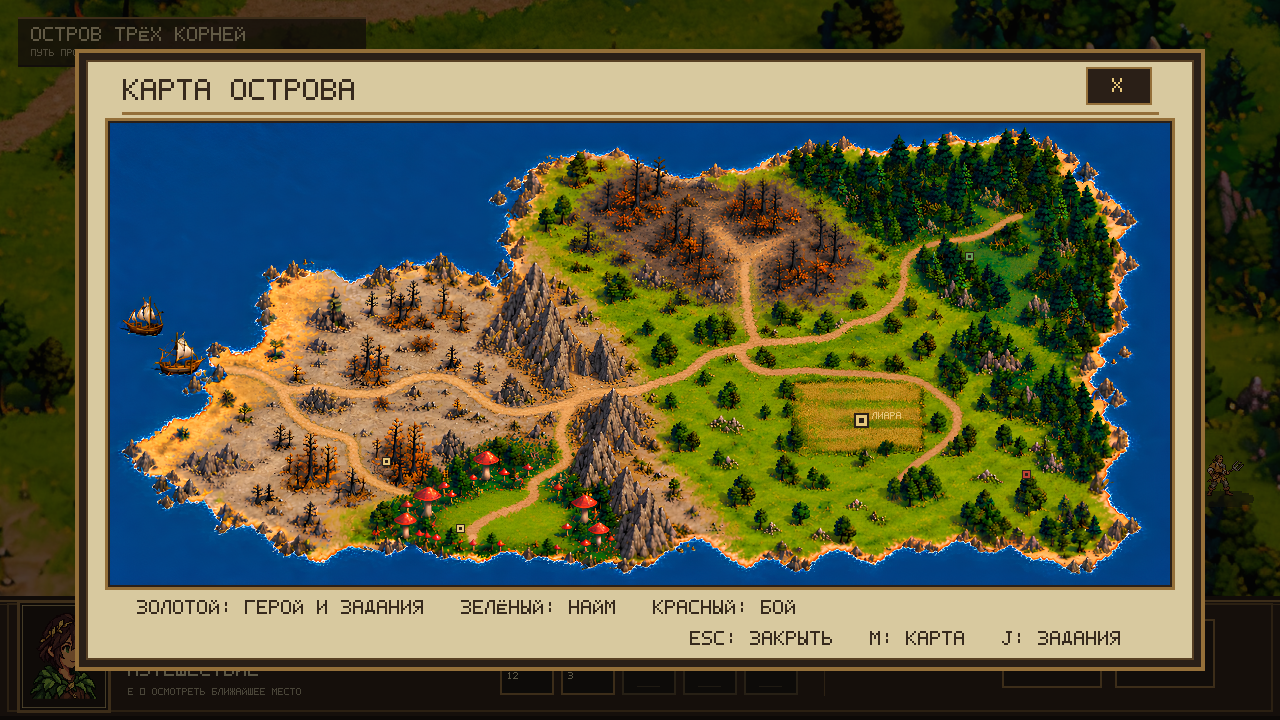
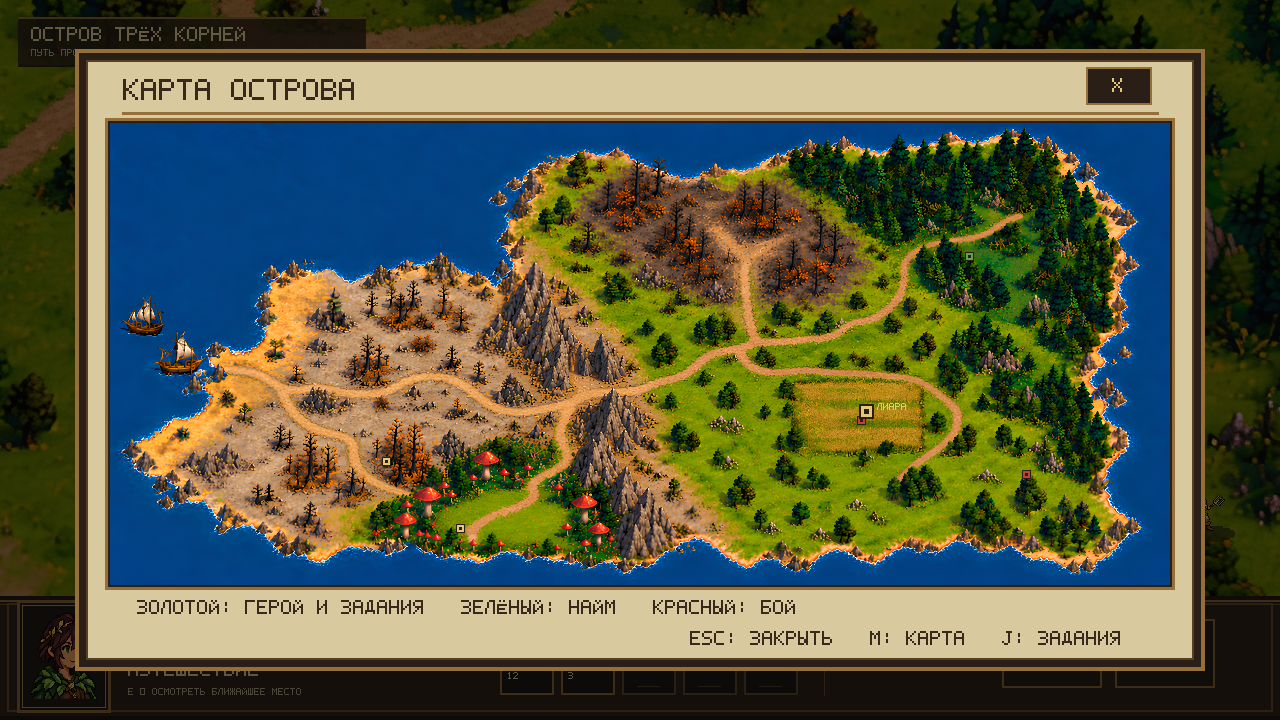
fix(exploration): stop beside interactive characters (fixes #47)

diff --git a/src/Game.MonoGame/Screens/ExplorationScreen.cs b/src/Game.MonoGame/Screens/ExplorationScreen.cs
@@ -219,6 +219,18 @@ internal sealed class ExplorationScreen : IGameScreen
                 ? saved : _projection.ToArt(_projection.Project(_movement.Position, map.GetTile(_movement.Position)!.Height));
             initial = new AdventurePathfinder(_surface).FindNearestWalkable(initial);
             _travel = new(_surface, initial);
+            if (capture == CampaignCaptureStage.AfterChoice)
+            {
+                _travel = new(_surface, navigation.Start);
+                var landmark = InteractionPosition(map.PointsOfInterest.Single(point => point.Id == "pasture-request"));
+                _travel.SelectApproach(landmark);
+                if (!_travel.SelectApproach(landmark))
+                    throw new InvalidOperationException("Cannot confirm the capture landmark approach.");
+                for (var step = 0; step < 10000 && _travel.IsMoving; step++) _travel.Advance(0.1f);
+                if (_travel.IsMoving || !_travel.CanInteractWith(landmark))
+                    throw new InvalidOperationException("Cannot complete the capture landmark approach.");
+                initial = _travel.Position;
+            }
             if (!previewNorthTrail)
             {
                 var world = _projection.FromArt(initial);
@@ -338,7 +350,11 @@ internal sealed class ExplorationScreen : IGameScreen
     private void VisitPoint(WorldPointOfInterest point)
     {
         if (_travel is not null)
+        {
+            _travel.Stop();
+            _travelPoint = null;
             _movement = new MovementSelection(CreateMovementMap(point.Coordinate), point.Coordinate);
+        }
         if (_campaign is not null && _units is not null)
         {
             if (point.Type.Equals("quest", StringComparison.OrdinalIgnoreCase))
@@ -555,9 +571,8 @@ internal sealed class ExplorationScreen : IGameScreen
             if (_travel.IsMoving) return "В ПУТИ. ЛКМ — ВЫБРАТЬ НОВЫЙ МАРШРУТ.";
             if (_travel.Destination is not null)
                 return _travel.Preview.IsReachable ? "ЛКМ ЕЩЁ РАЗ — ИДТИ ПО МАРШРУТУ" : "ПУТЬ ПЕРЕКРЫТ";
-            if (NearestVisiblePoint(_travel.Position, 17) is { } nearby)
-                return hoveredPoint?.Id == nearby.Id &&
-                    MapPosition.Distance(_travel.Position, _map.Navigation!.Points[nearby.Id]) <= 6
+            if (NearestVisiblePoint(_travel.Position, AdventureTravel.InteractionRadius) is { } nearby)
+                return hoveredPoint?.Id == nearby.Id
                     ? "ЛКМ / E — ОСМОТРЕТЬ МЕСТО" : "E — ОСМОТРЕТЬ БЛИЖАЙШЕЕ МЕСТО";
             return hoveredPoint is not null ? "ЛКМ — ПОДОЙТИ К МЕСТУ" : "ЛКМ — ВЫБРАТЬ ЛЮБУЮ ТОЧКУ ТРОПЫ";
         }
@@ -588,12 +603,16 @@ internal sealed class ExplorationScreen : IGameScreen
         _hoverPosition = pointer.X >= 0 && pointer.X < 1280 && pointer.Y >= 0 && pointer.Y < MapViewportHeight
             ? _projection.ToArt(_camera.ToWorld(pointer)) : null;
         _hoverPoint = _hoverPosition is { } hover ? NearestVisiblePoint(hover, 16, hitSprites: true) : null;
-        if (IsPressed(keyboard, _previousKeyboard, Keys.E) && NearestVisiblePoint(travel.Position, 17) is { } current)
+        if (IsPressed(keyboard, _previousKeyboard, Keys.E) &&
+            NearestVisiblePoint(travel.Position, AdventureTravel.InteractionRadius) is { } current)
+        {
             VisitPointAt(current.Coordinate);
+            SaveProgress();
+        }
         if (!clicked || _hoverPosition is not { } position || HasOpenModal) return;
         _interactionMessage = null;
-        var targetPosition = _hoverPoint is not null ? _map.Navigation!.Points[_hoverPoint.Id] : position;
-        if (_hoverPoint is not null && MapPosition.Distance(travel.Position, targetPosition) <= 6)
+        var targetPosition = _hoverPoint is not null ? InteractionPosition(_hoverPoint) : position;
+        if (_hoverPoint is not null && travel.CanInteractWith(targetPosition))
         {
             VisitPointAt(_hoverPoint.Coordinate);
             SaveProgress();
@@ -601,7 +620,8 @@ internal sealed class ExplorationScreen : IGameScreen
         }
         SaveProgress();
         _travelPoint = _hoverPoint;
-        travel.Select(targetPosition);
+        if (_hoverPoint is not null) travel.SelectApproach(targetPosition);
+        else travel.Select(targetPosition);
     }
 
     private WorldPointOfInterest? NearestVisiblePoint(MapPosition position, float radius, bool hitSprites = false)
@@ -615,12 +635,11 @@ internal sealed class ExplorationScreen : IGameScreen
                     encounter.PointOfInterestId == point.Id && _campaign.CanAccessEncounter(encounter.Id)) == true))
             .Select(point =>
             {
-                var anchor = _map.Navigation!.Points[point.Id];
-                if (hitSprites)
-                    anchor = new(anchor.X + (point.Id == "guide-dialogue" ? -28 : 0), anchor.Y - 15);
-                return (Point: point, Distance: MapPosition.Distance(position, anchor));
+                var anchor = InteractionPosition(point);
+                if (hitSprites) anchor = new(anchor.X, anchor.Y - 15);
+                return (Point: point, Anchor: anchor, Distance: MapPosition.Distance(position, anchor));
             })
-            .Where(item => item.Distance <= radius)
+            .Where(item => item.Distance <= radius && (hitSprites || _travel!.CanInteractWith(item.Anchor, radius)))
             .OrderBy(item => item.Distance)
             .ThenBy(item => item.Point.Type == "quest" ? 0 : 1)
             .Select(item => item.Point).FirstOrDefault();
@@ -633,6 +652,9 @@ internal sealed class ExplorationScreen : IGameScreen
         return _campaign.Quests.Where(quest => !completed.Contains(quest.Id))
             .Select(quest => quest.PointOfInterestId).OfType<string>().ToHashSet(StringComparer.Ordinal);
     }
+
+    private MapPosition InteractionPosition(WorldPointOfInterest point) => _projection.ToArt(
+        _projection.ProjectPoint(point) + AdventureMapRenderer.IdleActorOffset(point.Id));
 
     internal void PrepareTravelPreview()
     {

diff --git a/tests/Game.Tests/World/AdventureApproachTests.cs b/tests/Game.Tests/World/AdventureApproachTests.cs
@@ -1,0 +1,79 @@
+using Game.Core.Navigation;
+using Xunit;
+
+namespace Game.Tests.World;
+
+public sealed class AdventureApproachTests
+{
+    [Fact]
+    public void NearbyLandmarkAcrossClosedBarrier_CannotBeInteractedWithFromThisSide()
+    {
+        var travel = new AdventureTravel(new(Map(gates: [new("key", Box(90, 0, 4, 120).Points)])), new(86, 60));
+        Assert.False(travel.CanInteractWith(new(102, 60)));
+        Assert.False(travel.SelectApproach(new(102, 60)));
+        Assert.False(travel.Preview.IsReachable);
+        Assert.False(travel.IsMoving);
+    }
+
+    [Fact]
+    public void TwoClicksOnLandmark_StopAtSeparateNearbyPointWithoutTeleporting()
+    {
+        var travel = new AdventureTravel(new(Map()), new(20, 60), speed: 40);
+        var npc = new MapPosition(180, 60);
+        Assert.False(travel.SelectApproach(npc));
+        Assert.Equal(new MapPosition(160, 60), travel.Destination);
+        Assert.Equal(new MapPosition(20, 60), travel.Position);
+        Assert.True(travel.SelectApproach(npc));
+        travel.Advance(10);
+        Assert.Equal(new MapPosition(160, 60), travel.Position);
+        Assert.Equal(20, MapPosition.Distance(travel.Position, npc));
+        Assert.True(travel.CanInteractWith(npc));
+        Assert.False(travel.IsMoving);
+    }
+
+    [Fact]
+    public void BlockedDirectApproach_SelectsReachableSideWithoutCuttingObstacle()
+    {
+        var surface = new AdventureSurface(Map(holes: [Box(156, 48, 16, 24)]));
+        var travel = new AdventureTravel(surface, new(20, 60));
+        var npc = new MapPosition(180, 60);
+        travel.SelectApproach(npc);
+        Assert.True(travel.Preview.IsReachable);
+        Assert.NotEqual(new MapPosition(160, 60), travel.Destination);
+        Assert.InRange(MapPosition.Distance(travel.Destination!.Value, npc), 19.99f, 20.01f);
+        Assert.All(travel.Preview.Points.Zip(travel.Preview.Points.Skip(1)), segment =>
+            Assert.True(surface.IsSegmentWalkable(segment.First, segment.Second)));
+    }
+
+    [Fact]
+    public void StoryBarrier_CannotBeBypassedByChoosingLandmarkApproach()
+    {
+        var travel = new AdventureTravel(new(Map(gates: [new("key", Box(90, 0, 20, 120).Points)])), new(20, 60));
+        Assert.False(travel.SelectApproach(new(180, 60)));
+        Assert.False(travel.SelectApproach(new(180, 60)));
+        Assert.False(travel.Preview.IsReachable);
+        Assert.False(travel.IsMoving);
+        Assert.Equal(new MapPosition(20, 60), travel.Position);
+    }
+
+    [Fact]
+    public void Stop_CancelsOldRouteAndPreviewButKeepsExactCurrentPosition()
+    {
+        var travel = new AdventureTravel(new(Map()), new(20, 60), speed: 40);
+        travel.SelectApproach(new(180, 60));
+        travel.SelectApproach(new(180, 60));
+        travel.Advance(0.3f);
+        var before = travel.Position;
+        travel.Stop();
+        Assert.False(travel.Advance(10));
+        Assert.Equal(before, travel.Position);
+        Assert.Null(travel.Destination);
+        Assert.Empty(travel.DisplayPath);
+    }
+
+    private static AdventureNavigation Map(IReadOnlyList<NavigationPolygon>? holes = null,
+        IReadOnlyList<NavigationGate>? gates = null) => new(200, 120, 4, 2,
+            [Box(4, 4, 192, 112)], holes ?? [], gates ?? [], new Dictionary<string, MapPosition>(), new(20, 60));
+    private static NavigationPolygon Box(float x, float y, float width, float height) =>
+        new([new(x, y), new(x + width, y), new(x + width, y + height), new(x, y + height)]);
+}

diff --git a/src/Game.Core/Navigation/AdventureTravel.cs b/src/Game.Core/Navigation/AdventureTravel.cs
@@ -5,6 +5,8 @@ namespace Game.Core.Navigation;
 /// <summary>Two-click route selection and time-based movement to an exact map position.</summary>
 public sealed class AdventureTravel
 {
+    public const float ApproachDistance = 20;
+    public const float InteractionRadius = 21;
     private readonly AdventurePathfinder _pathfinder;
     private readonly float _speed;
     private IReadOnlyList<MapPosition> _activePath = [];
@@ -29,11 +31,49 @@ public sealed class AdventureTravel
         _pathfinder = new(surface);
     }
 
-    public bool Select(MapPosition destination)
+    public bool Select(MapPosition destination) => SelectPath(destination, _pathfinder.FindPath(Position, destination));
+
+    /// <summary>Choose a reachable standing spot beside a landmark, rather than inside its model.</summary>
+    public bool SelectApproach(MapPosition landmark, float distance = ApproachDistance)
+    {
+        if (!landmark.IsFinite) throw new ArgumentException("Landmark must be finite.", nameof(landmark));
+        if (!float.IsFinite(distance) || distance <= 0) throw new ArgumentOutOfRangeException(nameof(distance));
+        // A standing spot on this side of a closed story barrier must not grant interaction across it.
+        if (_pathfinder.FindPath(Position, landmark).IsReachable)
+        {
+            var towardHero = Position.Vector - landmark.Vector;
+            var angle = towardHero.LengthSquared() > 0.001f ? MathF.Atan2(towardHero.Y, towardHero.X) : MathF.PI / 2;
+            int[] turns = [0, 1, -1, 2, -2, 3, -3, 4, -4, 5, -5, 6];
+            foreach (var turn in turns)
+            {
+                var direction = angle + turn * MathF.PI / 6;
+                var candidate = new MapPosition(landmark.X + MathF.Cos(direction) * distance,
+                    landmark.Y + MathF.Sin(direction) * distance);
+                if (!Surface.IsSegmentWalkable(candidate, landmark)) continue;
+                var path = _pathfinder.FindPath(Position, candidate);
+                if (path.IsReachable) return SelectPath(candidate, path);
+            }
+        }
+        Stop();
+        Destination = landmark;
+        return false;
+    }
+
+    public void Stop()
     {
         _activePath = [];
         _next = 0;
-        var path = _pathfinder.FindPath(Position, destination);
+        Destination = null;
+        Preview = AdventurePath.Unreachable;
+    }
+
+    public bool CanInteractWith(MapPosition landmark, float radius = InteractionRadius) =>
+        MapPosition.Distance(Position, landmark) <= radius && Surface.IsSegmentWalkable(Position, landmark);
+
+    private bool SelectPath(MapPosition destination, AdventurePath path)
+    {
+        _activePath = [];
+        _next = 0;
         if (Destination is { } selected && MapPosition.Distance(selected, destination) <= 3 &&
             Preview.IsReachable && path.IsReachable && path.Length > 0.01f)
         {

diff --git a/tests/Game.Tests/Content/AdventureMapContentTests.cs b/tests/Game.Tests/Content/AdventureMapContentTests.cs
@@ -1,11 +1,53 @@
 using Game.Core.Content;
 using Game.Core.Navigation;
+using Game.Core.Geometry;
+using Game.MonoGame.Rendering;
 using Xunit;
 
 namespace Game.Tests.Content;
 
 public sealed class AdventureMapContentTests
 {
+    [Fact]
+    public void SavedApproachPosition_RestoresBesideLandmarkWithItsLogicalQuestAnchor()
+    {
+        var root = Path.Combine(AppContext.BaseDirectory, "content");
+        var units = UnitCatalog.Load(Path.Combine(root, "units", "units.json")).Catalog!;
+        var definition = new CampaignLoader(units).Load(Path.Combine(root, "campaigns", "flora-01.json")).Definition!;
+        var campaign = definition.CreateGameState();
+        var nav = definition.Map.Navigation!;
+        var point = definition.Map.PointsOfInterest.Single(point => point.Id == "pasture-request");
+        var travel = new AdventureTravel(new(nav, campaign.IsUnlocked), nav.Start);
+        travel.SelectApproach(nav.Points[point.Id]);
+        Assert.True(travel.SelectApproach(nav.Points[point.Id]));
+        travel.Advance(100);
+        travel.Stop();
+        Assert.NotEqual(nav.Points[point.Id], travel.Position);
+        var save = campaign.CreateSave(definition.Id, definition.Map.Id, point.Coordinate) with
+            { AdventurePosition = travel.Position };
+        Assert.True(definition.CreateGameState().TryRestoreSave(save, definition.Id, definition.PlayerFactionId,
+            definition.Map, units, out var error), error);
+    }
+
+    [Fact]
+    public void FloraLandmarks_HaveReachableStandingSpotsIncludingOffsetGuide()
+    {
+        var result = new MapLoader().Load(Path.Combine(AppContext.BaseDirectory, "content", "maps", "flora-01.json"));
+        var map = result.Map!;
+        var nav = map.Navigation!;
+        var surface = new AdventureSurface(nav, _ => true);
+        var travel = new AdventureTravel(surface, nav.Start);
+        var projection = new AdventureMapProjection(map, 88, 40, 5, 2);
+        foreach (var point in map.PointsOfInterest.Where(point => point.Type != "gate"))
+        {
+            var landmark = projection.ToArt(projection.ProjectPoint(point) + AdventureMapRenderer.IdleActorOffset(point.Id));
+            travel.Stop();
+            travel.SelectApproach(landmark);
+            Assert.True(travel.Preview.IsReachable, $"No standing spot beside '{point.Id}'.");
+            Assert.InRange(MapPosition.Distance(travel.Destination!.Value, landmark), 19.99f, 20.01f);
+        }
+    }
+
     private static AdventureNavigation Load()
     {
         var result = new MapLoader().Load(Path.Combine(AppContext.BaseDirectory, "content", "maps", "flora-01.json"));

diff --git a/src/Game.MonoGame/Rendering/AdventureMapRenderer.cs b/src/Game.MonoGame/Rendering/AdventureMapRenderer.cs
@@ -19,6 +19,9 @@ internal sealed class AdventureMapRenderer(PixelCanvas canvas, AssetCatalog asse
     private bool _compactMap;
     private IReadOnlySet<string>? _activeQuestPoints;
 
+    internal static WorldVector2 IdleActorOffset(string pointId) =>
+        pointId == "guide-dialogue" ? new WorldVector2(-56, 5) : WorldVector2.Zero;
+
     internal static bool IsPointVisible(WorldPointOfInterest point, bool compactMap,
         IReadOnlyDictionary<string, string> idleActors, IReadOnlySet<string>? activeQuestPoints)
     {
@@ -281,7 +284,7 @@ internal sealed class AdventureMapRenderer(PixelCanvas canvas, AssetCatalog asse
 
     private void DrawIdleActor(WorldPointOfInterest point, string idleKey, WorldVector2 p, float seconds)
     {
-        if (point.Id == "guide-dialogue") p += new WorldVector2(-56, 5);
+        p += IdleActorOffset(point.Id);
         var phase = point.Id.Sum(character => (int)character) & 3;
         var frameMs = idleKey.StartsWith("unit.human.", StringComparison.Ordinal) ? 320f : 260f;
         var frame = ((int)(seconds * 1000f / frameMs) + phase) % 4;

diff --git a/docs/night-review-2026-10-21.md b/docs/night-review-2026-10-21.md
@@ -16,10 +16,11 @@
 - Выбор бойца учитывает видимые пиксели его модели и подпись численности перед проверкой земли. Верх рыцаря/инквизитора над соседним гексом выбирает свой отряд; прозрачные промежутки и отражённые спрайты обрабатываются отдельно. Размеры для рисования и выбора берутся из одного места.
 - Три человеческих idle заменены версиями v2 по нынешним боевым спрайтам; старые персонажи больше не подменяют крестьянина, рыцаря и инквизитора на карте. Галерея обновлена, архивные человеческие атаки обозначены отдельно. Ступни и отсутствие обрезки проверены при импорте; источник и промпты сохранены.
 - Завершённые значки заданий больше не остаются под следующими боями и на обзоре. Отрисовка и свободное наведение используют общее правило видимости; проводник остаётся как NPC без знака задания. Обзор использует собственный JSON-якорь каждой точки. Возле доступного места возвращена подсказка E.
+- Подход к NPC останавливает героиню на отдельной проходимой позиции; модели больше не занимают одну точку. E и клик используют одинаковый радиус и проверку прямого участка, поэтому через закрытый проход взаимодействовать нельзя. Открытие места отменяет старый маршрут без телепорта и сохраняет реальную позицию. Смещение модели проводника учтено и при выборе, и при подходе.
 
 ## Проверено
 
-456 тестов проходят. Новые проверки сравнивают прогноз с фактической потерей HP, проверяют старые сохранения, препятствия, сюжетные проходы, независимость движения от частоты кадров, геометрию анимаций, выбор непрозрачных пикселей уменьшенного/отражённого спрайта, наличие актуальных idle-листов в сборке и видимость точки после завершённого выбора. `git diff --check` без ошибок.
+463 теста проходят. Новые проверки сравнивают прогноз с фактической потерей HP, проверяют старые сохранения, препятствия, сюжетные проходы, независимость движения от частоты кадров, геометрию анимаций, выбор непрозрачных пикселей уменьшенного/отражённого спрайта, наличие актуальных idle-листов в сборке, видимость точки после завершённого выбора, подход ко всем ориентирам и восстановление позиции рядом с NPC. `git diff --check` без ошибок.
 
 Визуальный ревьювер проверил новую позу инквизитора и дневную, ночную и лечебную версии панели. Найденная им рассинхронизация выстрела исправлена. Это проверка конкретных кадров и кода; она не заменяет длительное ручное прохождение автором.
 
@@ -38,9 +39,10 @@
 - [Крестьянин с актуальным idle на карте](screenshots/human-idle-map-current.png)
 - [Контуры навигации](screenshots/navigation-regions-current.png)
 - [Обзор после выбора у крестьян](screenshots/map-after-choice-current.png)
+- [Раздельные позиции героини и NPC после подхода](screenshots/npc-approach-current.png)
 
 ## Следующие проверки
 
-На кадре после выбора обнаружено наложение героини и NPC: точка назначения совпадает с опорой персонажа. Исправление подхода на небольшом расстоянии ведётся отдельно в issue #47.
+Наложение героини и NPC, обнаруженное после выбора, исправлено в issue #47. При добавлении очень тесных новых мест редактором следует повторять тест доступности точки подхода; все ориентиры нынешнего острова такую проверку проходят.
 
 Не считать графику окончательно утверждённой до просмотра автором. Продолжать проверять видимость выстрела и совпадение курсора с возможностью атаки на разных высотах, переходы idle/attack всех типов войск, темп шага героя 0,5×, клики по спрайтам на карте и возврат из сюжетных боёв. Отдельная будущая задача — полноценные согласованные покадровые атласы людей вместо коротких смен атакующих поз.

diff --git a/docs/free-exploration.md b/docs/free-exploration.md
@@ -16,6 +16,8 @@
 
 `AdventureTravel` хранит позицию, предварительный и активный маршруты. Первый клик показывает путь, повторный подтверждает. Позиция меняется со временем; новый клик во время движения останавливает героя и показывает новый маршрут. Анимация ходьбы использует восемь направлений, отдельный стабильный idle и согласованный ранее тайминг 0,5×.
 
+Для точки взаимодействия `SelectApproach` выбирает проходимое место в 20 пикселях рисунка от NPC или входа, чтобы героиня не вставала внутри модели. Сначала проверяется путь к самому ориентиру, затем ближайшие направления подхода с безопасным последним участком. Клик по обычной земле по-прежнему означает точное назначение. `CanInteractWith` проверяет единый радиус для E и клика и отсутствие преграды между героем и местом. `Stop` отменяет прежний маршрут и его предпросмотр, сохраняя фактическую позицию.
+
 `ExplorationScreen` переводит координаты мыши через камеру, запускает движение и открывает встречу после прибытия. Существующие координаты точек кампании сохранены как связка с правилами квестов и найма. В новом сейве поле `AdventurePosition` содержит точное положение героя. Старый сейв без него восстанавливается у соответствующего ориентира. При восстановлении проверяется достижимость позиции с учётом сохранённых сюжетных открытий.
 
 F3 включает диагностические контуры; M открывает общий обзор. Это средство проверки, в обычной игре границы и внутренняя сетка скрыты.

diff --git a/README.md b/README.md
@@ -38,6 +38,8 @@ Idle людей обновлены до v2 по текущим боевым об
 
 Проходимость описывается полигонами в `content/maps/flora-01.json`: разрешённые области, отдельные препятствия и сюжетные преграды. Герой движется по сглаженному пути к точной цели; бои используют собственную гекс-сетку. Точная позиция сохраняется автоматически, старые сохранения поддерживаются.
 
+При выборе NPC героиня останавливается рядом с ним, а не внутри модели. E и клик используют одинаковую доступность взаимодействия; открытие диалога останавливает предыдущий маршрут. [Пример подхода к точке](docs/screenshots/npc-approach-current.png).
+
 ![Свободный маршрут в исследовании](docs/screenshots/free-travel-current.png)
 
 Для проверки границ проходимости можно включить F3 и открыть карту клавишей M. Золотые контуры показывают разрешённые области, красные — препятствия, фиолетовые — ещё закрытые сюжетные проходы.
